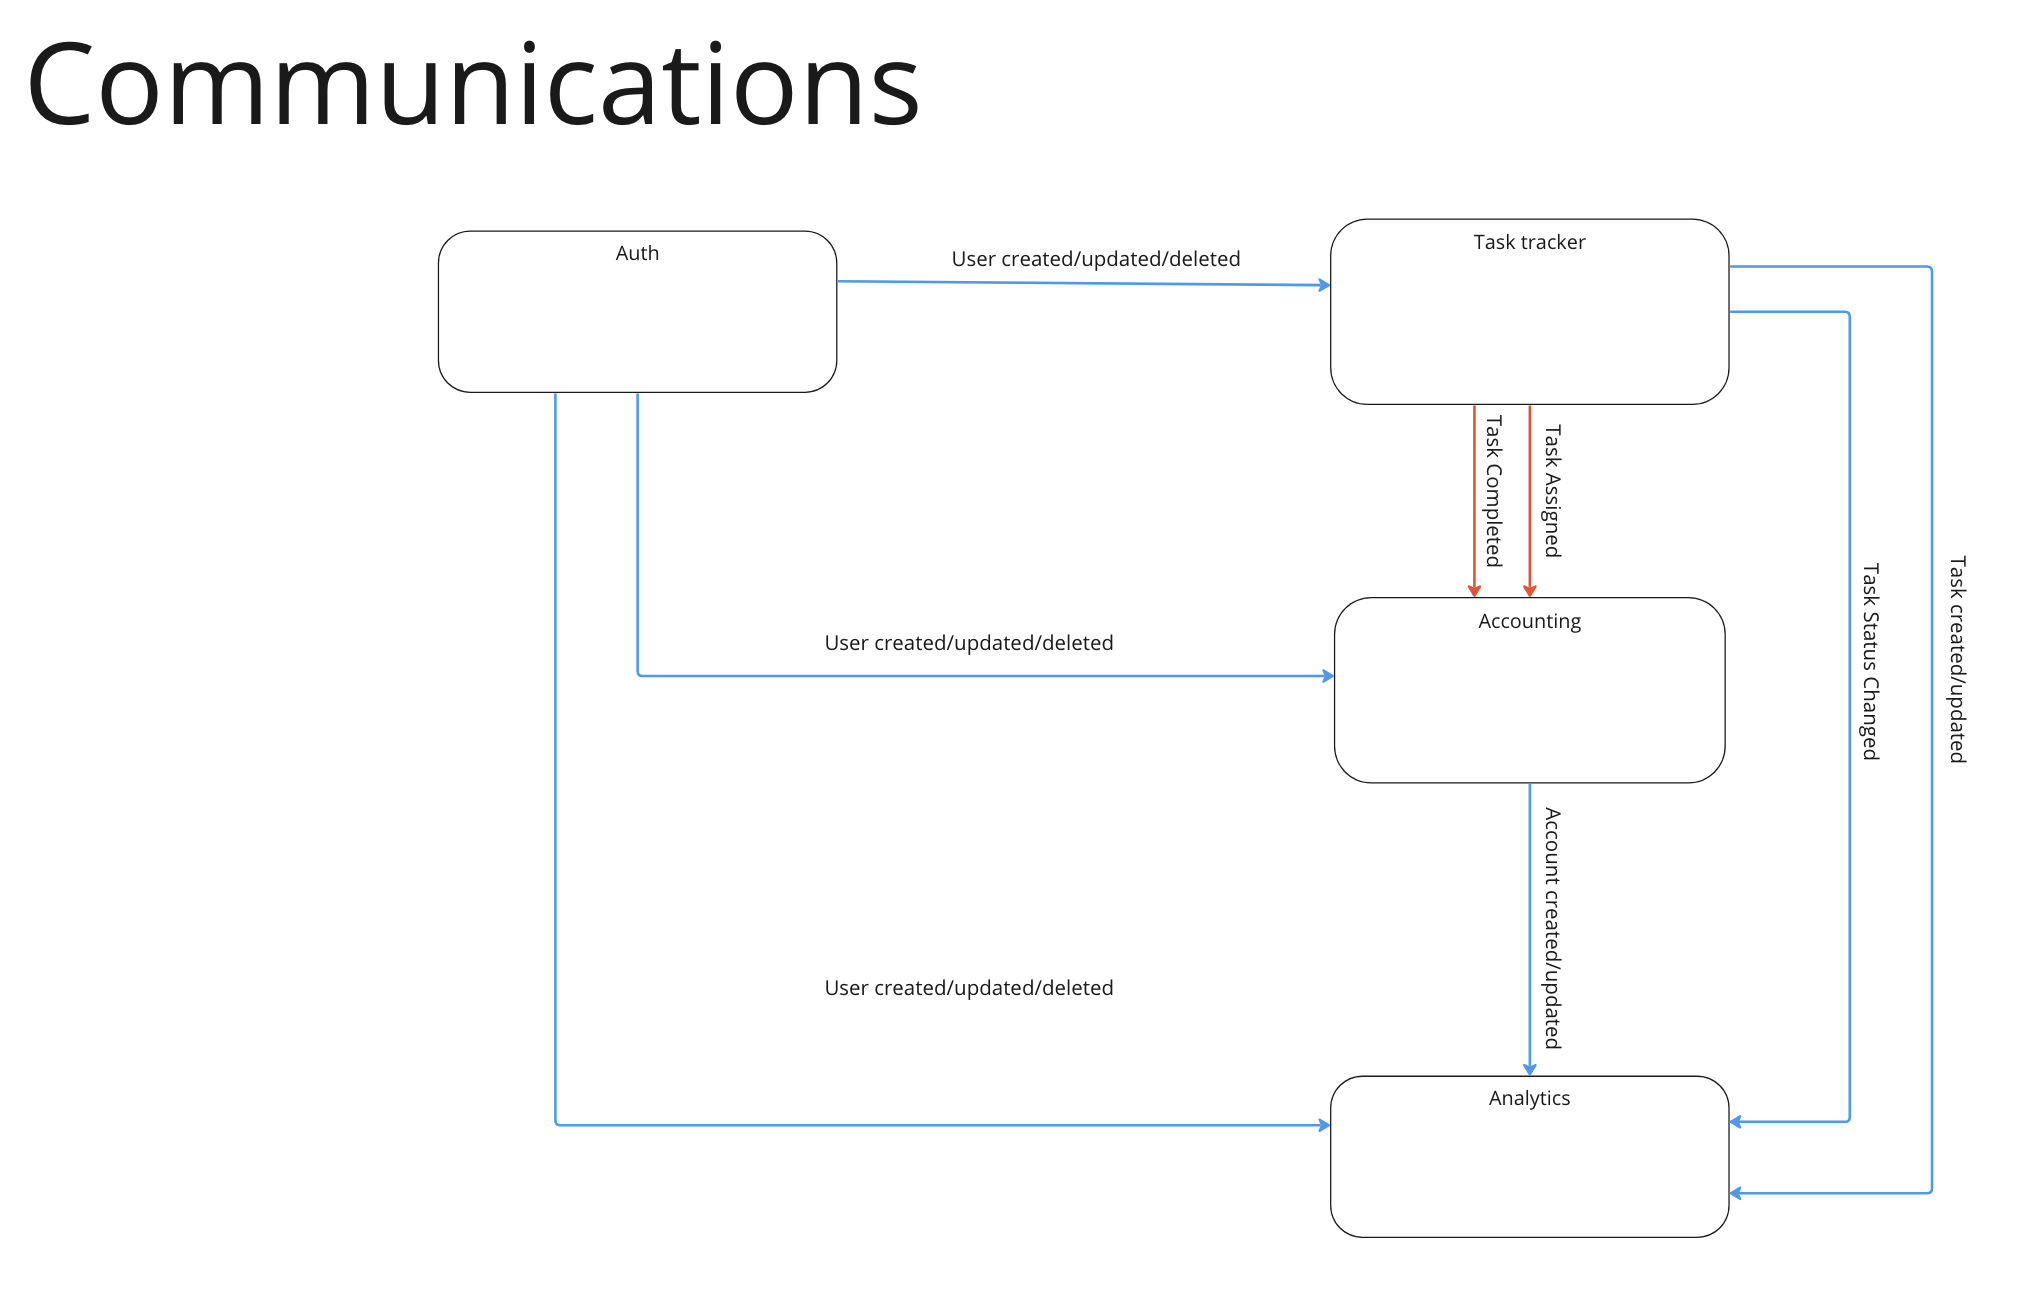
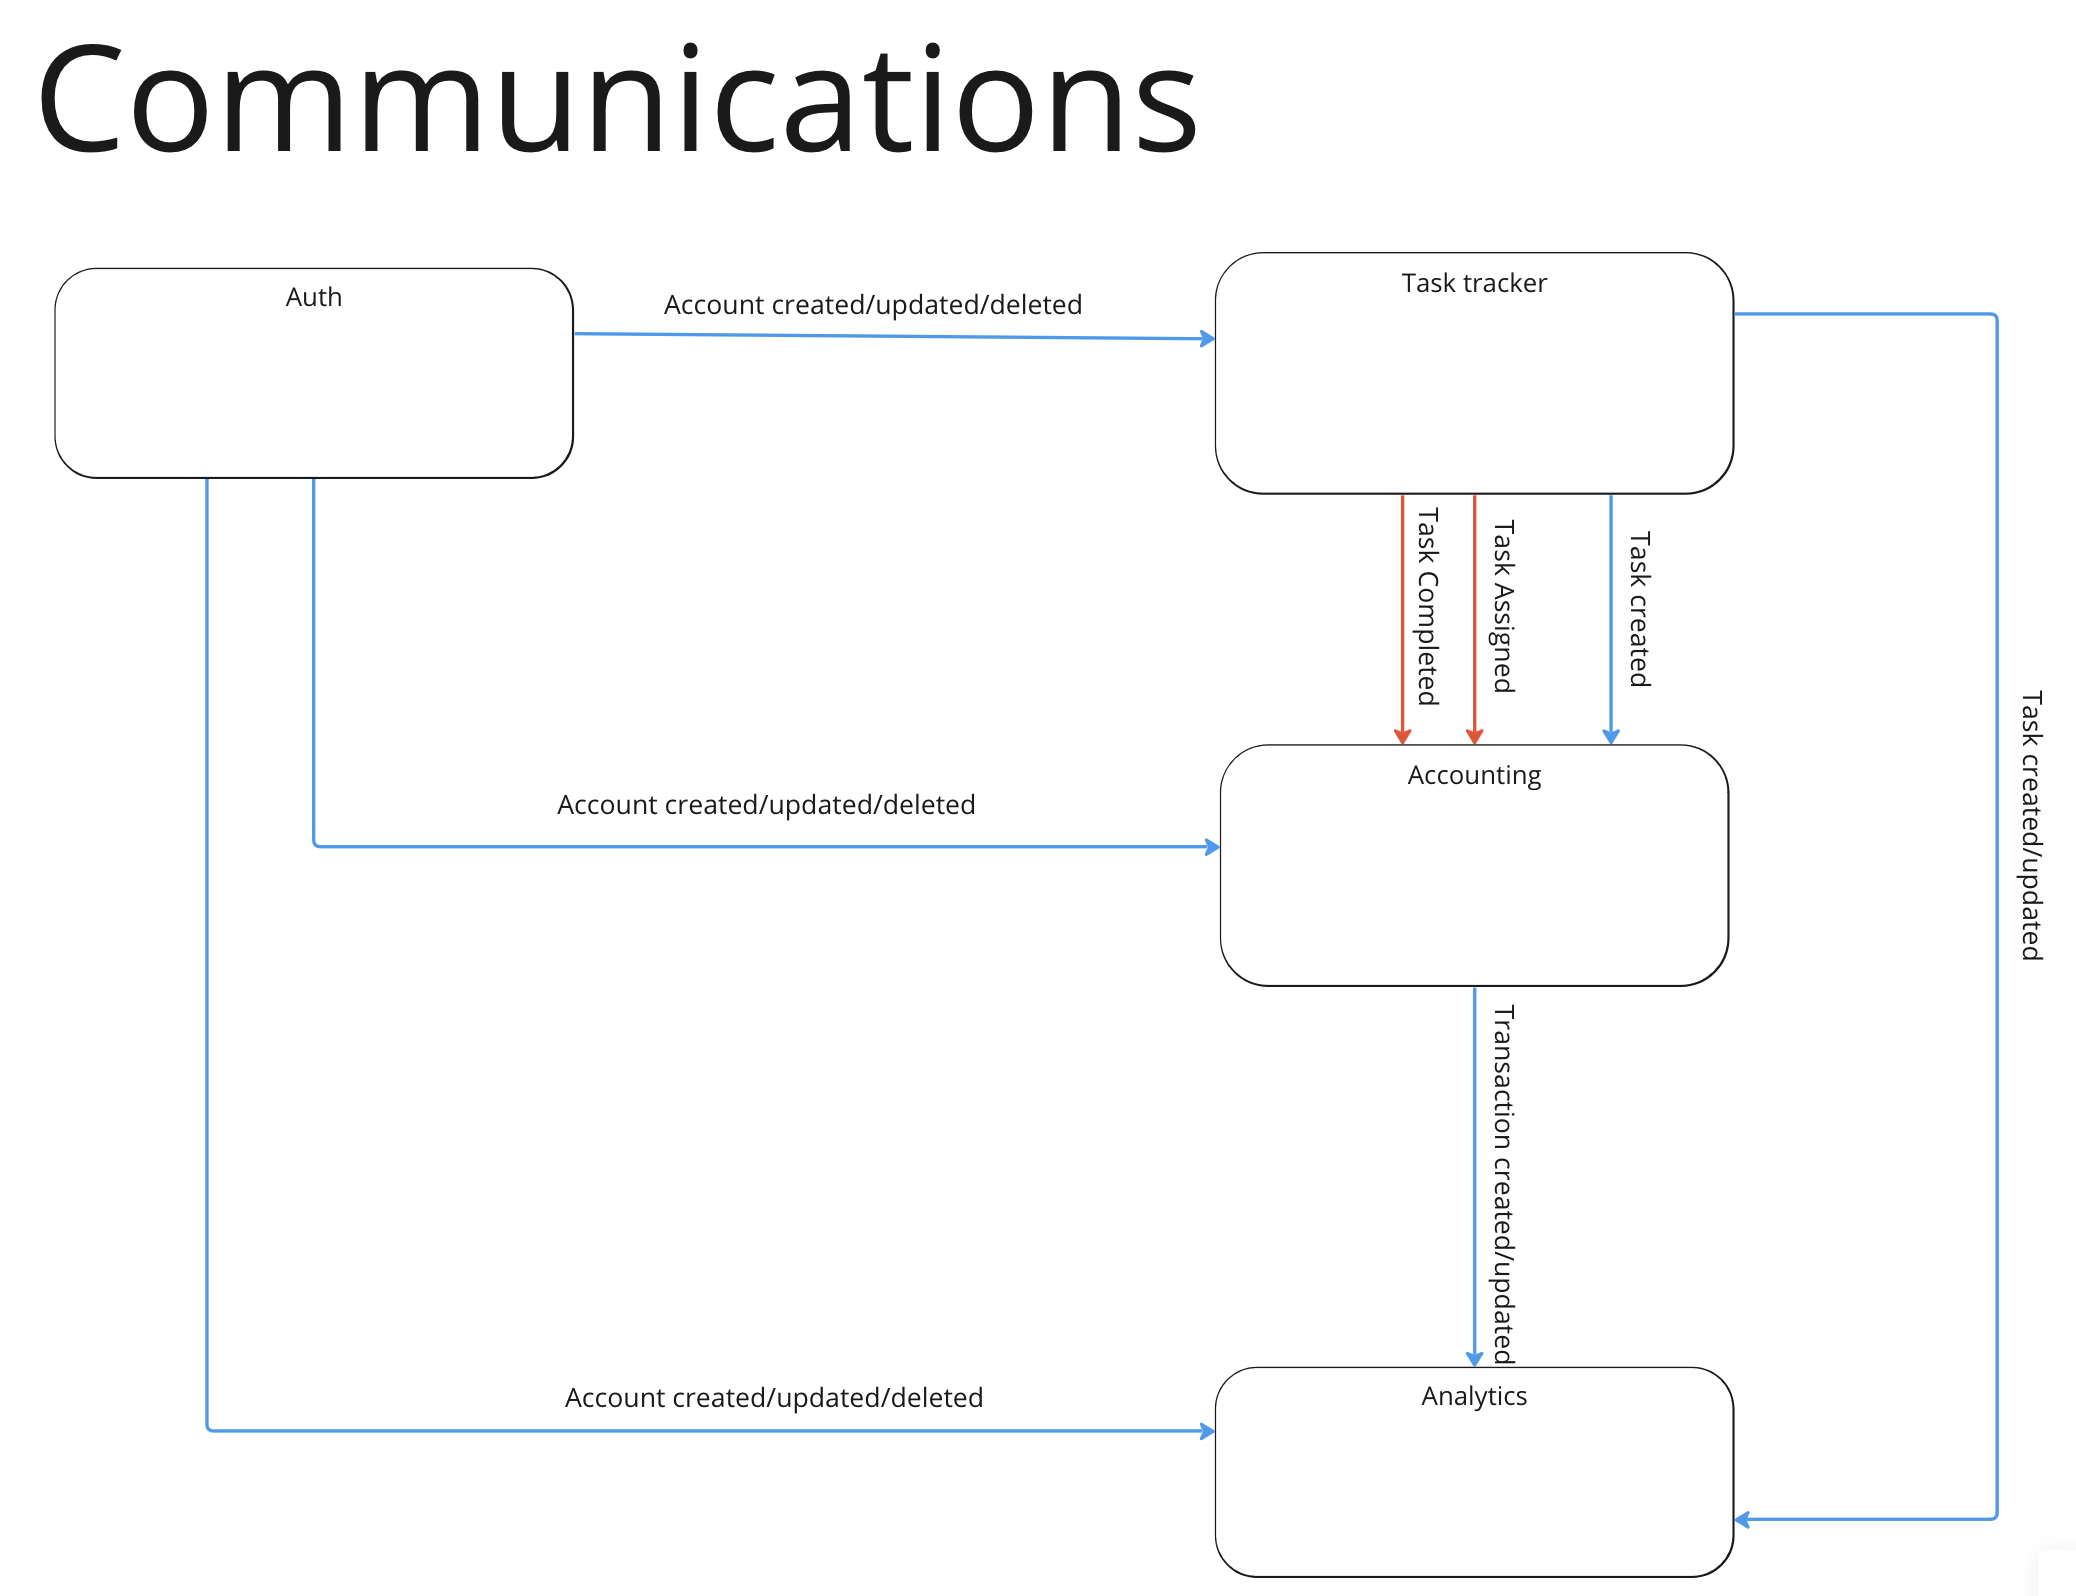
Update on feedback

diff --git a/design/design.md b/design/design.md
@@ -1,4 +1,4 @@
-# HW1: ES, DataModel, Communications
+# ES, DataModel, Communications
 
 ![Event storming](es.png)
 ![Data Model](dm.png)
@@ -7,27 +7,21 @@
 ### Events:
 #### Business events:
 **TaskCompleted/TaskAssigned**
-* user_id
+* account_id
 * task_id
-* price
 * timestamp
 
 #### CUD
 **UserCreated/UserUpdated/UserDeleted**
-* user_id
+* account_id
 * role_id
 
 **TaskCreated/TaskUpdated/TaskDeleted**
-* user_id
+* account_id
 * taks_id
-* price
-    * credit
-    * debit
 * timestamp
 * status
 
-**AccountCreated/AccountUpdated/AccountDeleted**
-* user_id
+**TransactionCreated/TransactionUpdated**
 * account_id
-* balance
 * transaction
